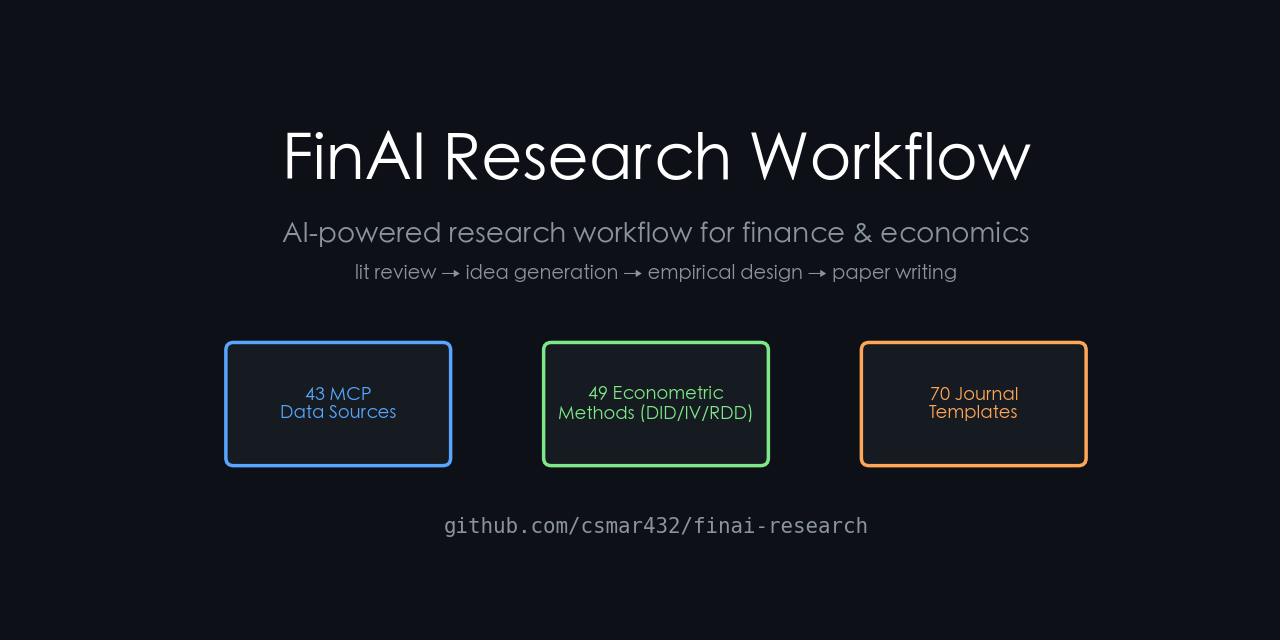
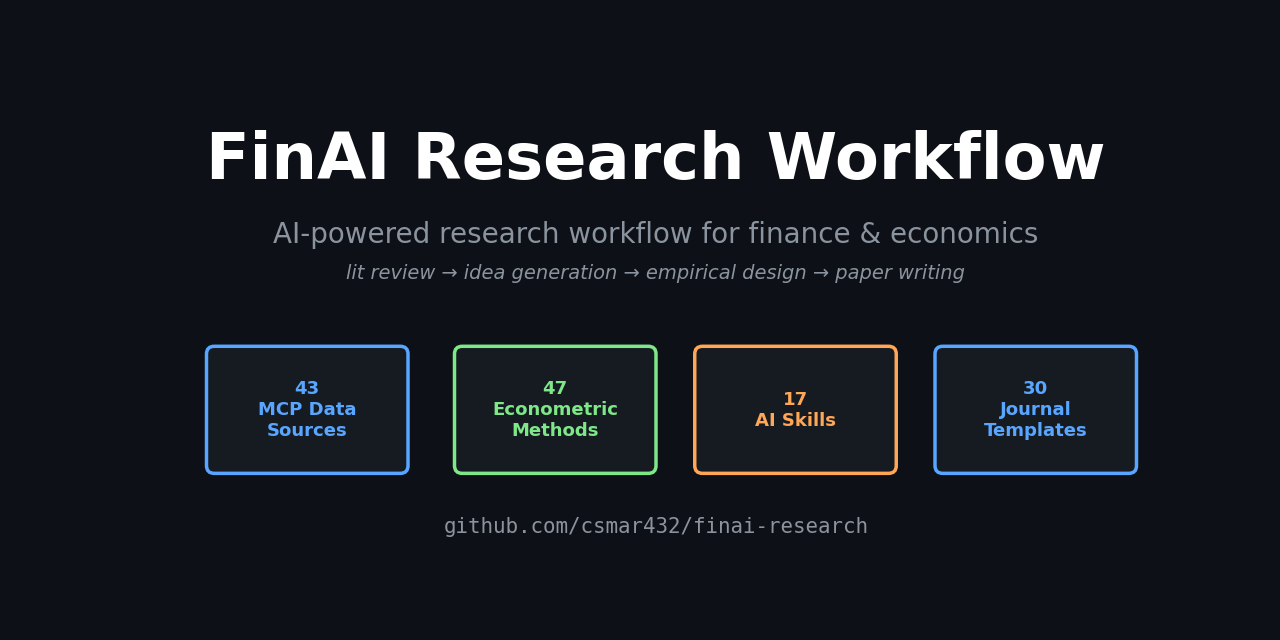
fix(social-preview): regenerate with correct counts (45→30 journals)
Discovered during A2 (GitHub Settings upload) that the existing
.github/social-preview.png displayed "45 Journal Templates" — but the
canonical count is 30 (per scripts/count_assets.py).

Root cause: scripts/gen_social_preview.py had hard-coded stale numbers
(49 methods / 70 templates / 43 MCP / 17 skills, dated to pre-audit
era). Whoever generated the existing PNG used an even older source
(the PNG shows 47 methods and 17 skills, matching current — but 45
templates, neither current nor what the gen script would have produced).

Fix:
  - scripts/gen_social_preview.py:
    * Imports `count_all()` from scripts/count_assets.py (SSOT)
    * All 4 numbers now pulled dynamically, never hard-coded
    * Layout adjusted from 3 cards → 4 cards to match the actual PNG
      style; widths tightened (2.5 vs 2.8) to fit all 4 cards at 12.8"
    * Robust import via __file__-relative path; works from any cwd
  - .github/social-preview.png: regenerated, now shows 43/47/17/30

Verification:
  - audit_guard.py: 17/17 checks pass
  - PNG: 1280×640, 60.5 KB (under GitHub 1 MB limit)
  - All 4 numbers verified against `python scripts/count_assets.py`

This image is ready for A2 upload to GitHub Settings → Social preview.

Audit marker: audit_fix_2026_07_12

Changed region(s): [[0.1562, 0.5312, 0.9062, 0.75], [0.1562, 0.1875, 0.875, 0.2812], [0.2188, 0.3438, 0.8125, 0.4375]]

diff --git a/scripts/gen_social_preview.py b/scripts/gen_social_preview.py
@@ -1,6 +1,22 @@
-"""Generate the GitHub social preview image (1280x640 PNG)."""
+"""Generate the GitHub social preview image (1280x640 PNG).
+
+Numbers are sourced from `scripts/count_assets.py::count_all()` — the
+single source of truth for repo statistics — so the PNG never drifts from
+README/audit. If you need to update counts, run:
+
+    python scripts/count_assets.py --markdown  # to see current numbers
+    python scripts/gen_social_preview.py        # to regenerate PNG
+"""
+import sys
+from pathlib import Path
+
 import matplotlib.pyplot as plt
 import matplotlib.patches as mpatches
+
+# Robust import: works from any cwd as long as PROJECT_ROOT is discoverable
+_PROJECT_ROOT = Path(__file__).resolve().parent.parent
+sys.path.insert(0, str(_PROJECT_ROOT / "scripts"))
+from count_assets import count_all  # noqa: E402
 
 # GitHub dark background colors
 BG = "#0d1117"
@@ -10,6 +26,13 @@ ACCENT1 = "#58a6ff"  # blue
 ACCENT2 = "#7ee787"  # green
 ACCENT3 = "#ffa657"  # orange
 CARD = "#161b22"
+
+# Pull canonical counts — never hard-code
+stats = count_all()
+mcp_total = stats["mcp_servers"]["total"]
+methods_total = stats["econometric_methods"]
+skills_total = stats["skills"]
+jt_total = stats["journal_templates"]["total"]
 
 fig, ax = plt.subplots(figsize=(12.8, 6.4), dpi=100)
 ax.set_xlim(0, 12.8)
@@ -38,21 +61,22 @@ ax.text(
     fontsize=14, color=SUB, style="italic",
 )
 
-# Three highlight cards
+# Four highlight cards — values pulled from count_all() (SSOT)
 cards = [
-    (2.3, "43 MCP\nData Sources", ACCENT1),
-    (6.4, "49 Econometric\nMethods (DID/IV/RDD)", ACCENT2),
-    (10.5, "70 Journal\nTemplates", ACCENT3),
+    (1.9, f"{mcp_total}\nMCP Data\nSources", ACCENT1),
+    (5.1, f"{methods_total}\nEconometric\nMethods", ACCENT2),
+    (8.2, f"{skills_total}\nAI Skills", ACCENT3),
+    (11.3, f"{jt_total}\nJournal\nTemplates", ACCENT1),
 ]
 for x, label, color in cards:
     box = mpatches.FancyBboxPatch(
-        (x - 1.4, 1.4), 2.8, 1.5,
+        (x - 1.25, 1.3), 2.5, 1.55,
         boxstyle="round,pad=0.05,rounding_size=0.1",
         facecolor=CARD, edgecolor=color, linewidth=2.5,
     )
     ax.add_patch(box)
     ax.text(
-        x, 2.15, label,
+        x, 2.07, label,
         ha="center", va="center",
         fontsize=13, color=color, weight="bold",
     )
@@ -69,4 +93,5 @@ plt.savefig(
     ".github/social-preview.png",
     dpi=100, facecolor=BG, bbox_inches=None,
 )
-print("saved .github/social-preview.png")
+print(f"saved .github/social-preview.png  (MCP={mcp_total}, methods={methods_total}, "
+      f"skills={skills_total}, journals={jt_total})")